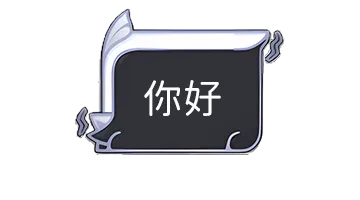
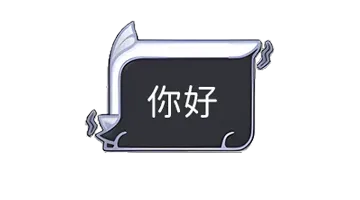
perf: 优化对话气泡相关代码

Changed region(s): [[0.1833, 0.03, 0.7944, 0.78], [0.3972, 0.39, 0.6111, 0.6]]

diff --git a/src/components/Message/ItemMessage.vue b/src/components/Message/ItemMessage.vue
@@ -92,6 +92,7 @@
 import { autoPlaySetting, setting } from '@/store/setting'
 import Icon from '../Common/Icon.vue'
 import { getAvatar } from './Message'
+import { bubbles } from '@/assets/data/bubbles'
 
 defineProps<{
   item: Message
@@ -110,15 +111,10 @@ const getBubbles = (key: string) => {
   const classList: string[] = []
   if (key === '开拓者') {
     classList.push('right')
-    switch (setting.bubbles) {
-      case 1:
-        classList.push('bubbles-1')
-        break
-      case 2:
-        classList.push('bubbles-2')
-        break
-      default:
-        classList.push('bubbles-0')
+    if (setting.bubbles > 0 && setting.bubbles <= bubbles.length - 1) {
+      classList.push(`bubbles-${setting.bubbles}`)
+    } else {
+      classList.push('bubbles-0')
     }
   }
   return classList
@@ -142,6 +138,7 @@ const updateMessage = (e: Event) => {
 
 <style lang="stylus" scoped>
 @import './Message.styl'
+@import './BubblesImage.styl'
 
 $del-pos = -100px
 
@@ -286,18 +283,70 @@ $del-pos = -100px
   .message-item
     align-items flex-end
 
+    .text-box
+      .text
+        border-radius 25px 0 25px 25px
+        box-shadow 2px 4px #9d9f9f
+
   .del
     left $del-pos
     right unset !important
 
 .bubbles-0
-  bubbles-0()
+  .text-box
+    .text
+      background #d3bb8b !important
+
+bubbles()
+  .text-box
+    margin 30px 40px !important
+    border 1px solid transparent
+    border-image-repeat stretch
+
+    .text
+      background none !important
+      border-radius 0 !important
+      box-shadow none !important
+      padding 5px !important
 
 .bubbles-1
-  bubbles-1()
+  bubbles()
+
+  .text-box
+    border-image-source $bubbles-1
+    border-image-slice 70 85 45 110 fill
+    border-image-width 70px 85px 45px 110px
+    border-image-outset 35px 60px 25px 65px
+
+    .text
+      margin 30px 0 15px 15px !important
+      color #fffafb !important
 
 .bubbles-2
-  bubbles-2()
+  bubbles()
+
+  .text-box
+    border-image-source $bubbles-2
+    border-image-slice 75 85 60 110 fill
+    border-image-width 75px 85px 60px 110px
+    border-image-outset 25px 60px 10px 65px
+
+    .text
+      margin 35px 0 15px 15px !important
+      color #fffafb !important
+
+.bubbles-3
+  bubbles()
+
+  .text-box
+    border-image-source $bubbles-3
+    border-image-slice 86 100 86 100 fill
+    border-image-width 86px 100px 86px 100px
+    border-image-outset 25px 60px 10px 65px
+
+    .text
+      margin 15px 0 20px -5px !important
+      color #fffafb !important
 
 .avatar-enter-active
   animation avatar 0.5s ease

diff --git a/src/components/Popup/Setting.vue b/src/components/Popup/Setting.vue
@@ -76,20 +76,14 @@
 </template>
 
 <script lang="ts" setup>
-import { watch, ref, reactive, computed } from 'vue'
+import { watch, ref, computed } from 'vue'
+import { bubbles } from '@/assets/data/bubbles'
 import { setting } from '@/store/setting'
 import { openWindow, popup, popupCallbalk } from '@/store/popup'
-import { getAssets } from '@/assets/scripts/preload'
 import Window from '@/components/Common/Window.vue'
 import Btn from '@/components/Common/Btn.vue'
 import Icon from '@/components/Common/Icon.vue'
 import Preview from '@/components/Common/Preview.vue'
-import bubbles_0 from '@/assets/images/bubbles/0.webp'
-import bubbles_0_preview from '@/assets/images/bubbles/0_preview.webp'
-import bubbles_1 from '@/assets/images/bubbles/1.webp'
-import bubbles_1_preview from '@/assets/images/bubbles/1_preview.webp'
-import bubbles_2 from '@/assets/images/bubbles/2.webp'
-import bubbles_2_preview from '@/assets/images/bubbles/2_preview.webp'
 
 const index = ref(0)
 
@@ -110,24 +104,6 @@ watch(
     }
   }
 )
-
-const bubbles = reactive([
-  {
-    name: '语言的艺术',
-    img: getAssets(bubbles_0),
-    preview: getAssets(bubbles_0_preview)
-  },
-  {
-    name: '兔子在哪里？',
-    img: getAssets(bubbles_1),
-    preview: getAssets(bubbles_1_preview)
-  },
-  {
-    name: '次元扑满',
-    img: getAssets(bubbles_2),
-    preview: getAssets(bubbles_2_preview)
-  }
-])
 
 const onBtnClick = () => {
   if (setting.bubbles === index.value) return false
@@ -166,19 +142,22 @@ popupCallbalk.setting = onBtnClick
   flex-wrap wrap
   justify-content flex-start
   overflow-x hidden
-  height 400px
+  height 450px
   width 1200px
-  margin 40px 0
+  margin-bottom 30px
   padding-right 10px
   user-select none
 
   .item
+    display flex
+    justify-content center
+    align-items center
     overflow hidden
     position relative
     box-sizing border-box
-    width 30%
+    width 385px
     height 200px
-    margin 0 3% 3% 0
+    margin 30px 10px 0 0
     background #c5c6ca
     border 4px solid #a7a8aa
     cursor pointer

diff --git a/src/assets/data/bubbles.ts b/src/assets/data/bubbles.ts
@@ -1,0 +1,33 @@
+import { reactive } from 'vue'
+import bubbles_0 from '@/assets/images/bubbles/0.webp'
+import bubbles_0_preview from '@/assets/images/bubbles/0_preview.webp'
+import bubbles_1 from '@/assets/images/bubbles/1.webp'
+import bubbles_1_preview from '@/assets/images/bubbles/1_preview.webp'
+import bubbles_2 from '@/assets/images/bubbles/2.webp'
+import bubbles_2_preview from '@/assets/images/bubbles/2_preview.webp'
+import bubbles_3 from '@/assets/images/bubbles/3.webp'
+import bubbles_3_preview from '@/assets/images/bubbles/3_preview.webp'
+
+
+export const bubbles = reactive([
+  {
+    name: '语言的艺术',
+    img: bubbles_0,
+    preview: bubbles_0_preview
+  },
+  {
+    name: '兔子在哪里？',
+    img: bubbles_1,
+    preview: bubbles_1_preview
+  },
+  {
+    name: '次元扑满',
+    img: bubbles_2,
+    preview: bubbles_2_preview
+  },
+  {
+    name: '星体培养皿',
+    img: bubbles_3,
+    preview: bubbles_3_preview
+  }
+])

diff --git a/src/assets/scripts/preload.ts b/src/assets/scripts/preload.ts
@@ -2,6 +2,7 @@ import { character } from '@/store/character'
 import { reactive, toRef } from 'vue'
 import { compressImage } from './image'
 import { emoticon } from '../data/emoticon'
+import { bubbles } from '../data/bubbles'
 
 export const assets: { [name: string]: string } = reactive({})
 
@@ -53,11 +54,17 @@ const emoticonPreload = async () => {
   }
 }
 
+const bubblesPreload = async () => {
+  for (const i in bubbles) {
+    bubbles[i].img = await getCache(bubbles[i].img)
+    bubbles[i].preview = await getCache(bubbles[i].preview)
+  }
+}
+
 const preload = () => {
   const list = import.meta.glob<string>(
     [
       // 预加载素材
-      '../images/bubbles/*',
       '../images/avatar/*',
       '../images/mission/*'
     ],
@@ -69,6 +76,7 @@ const preload = () => {
 
   characterPreload()
   emoticonPreload()
+  bubblesPreload()
 
   for (const i in list) {
     getCache(list[i]).then((res) => {
